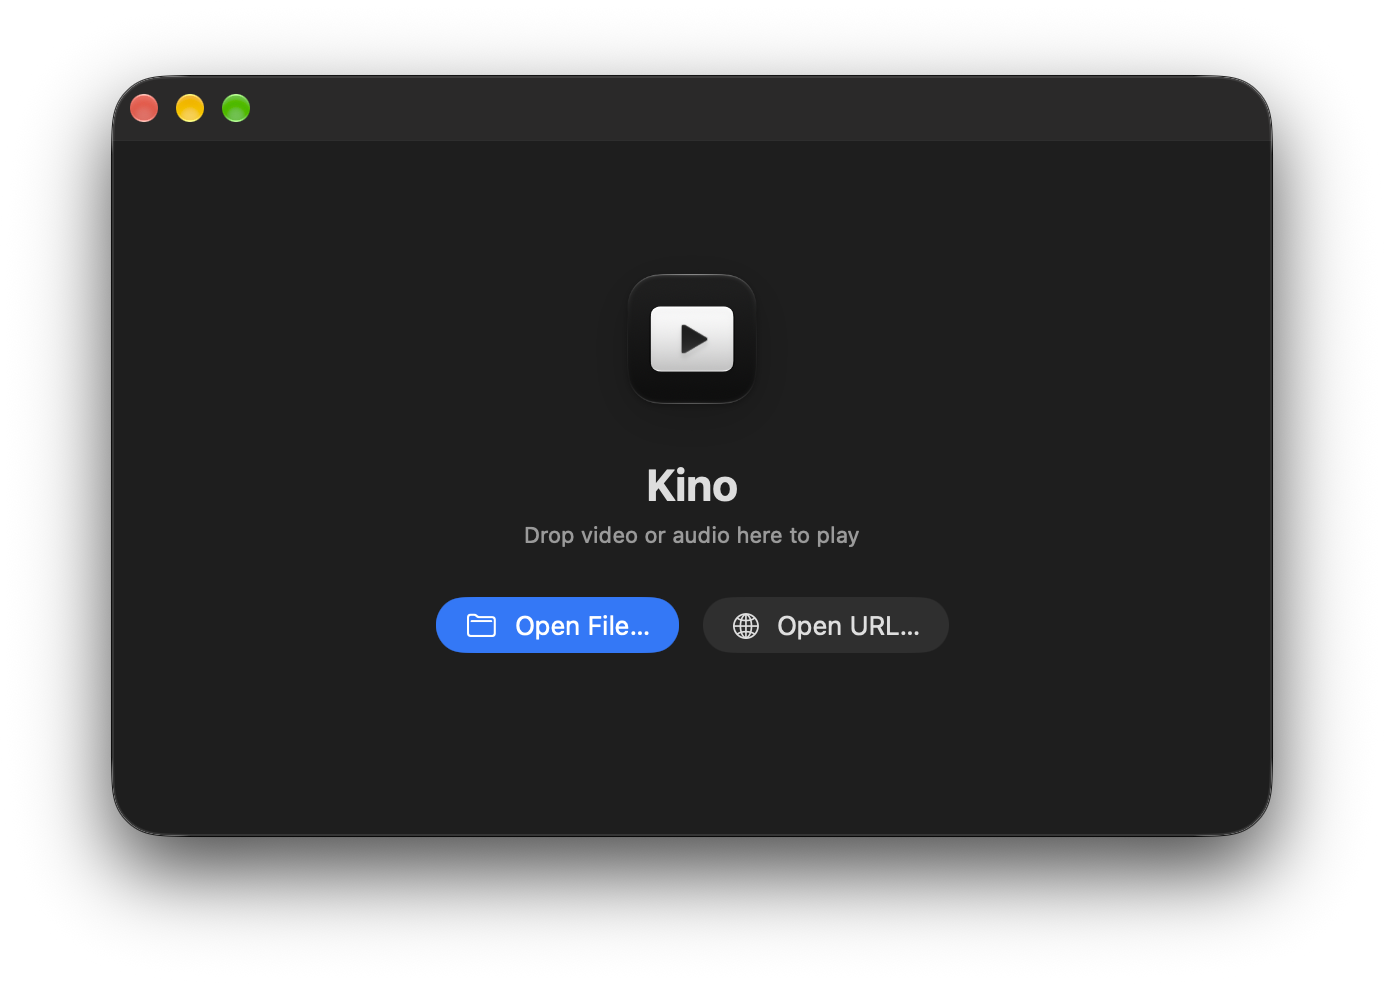
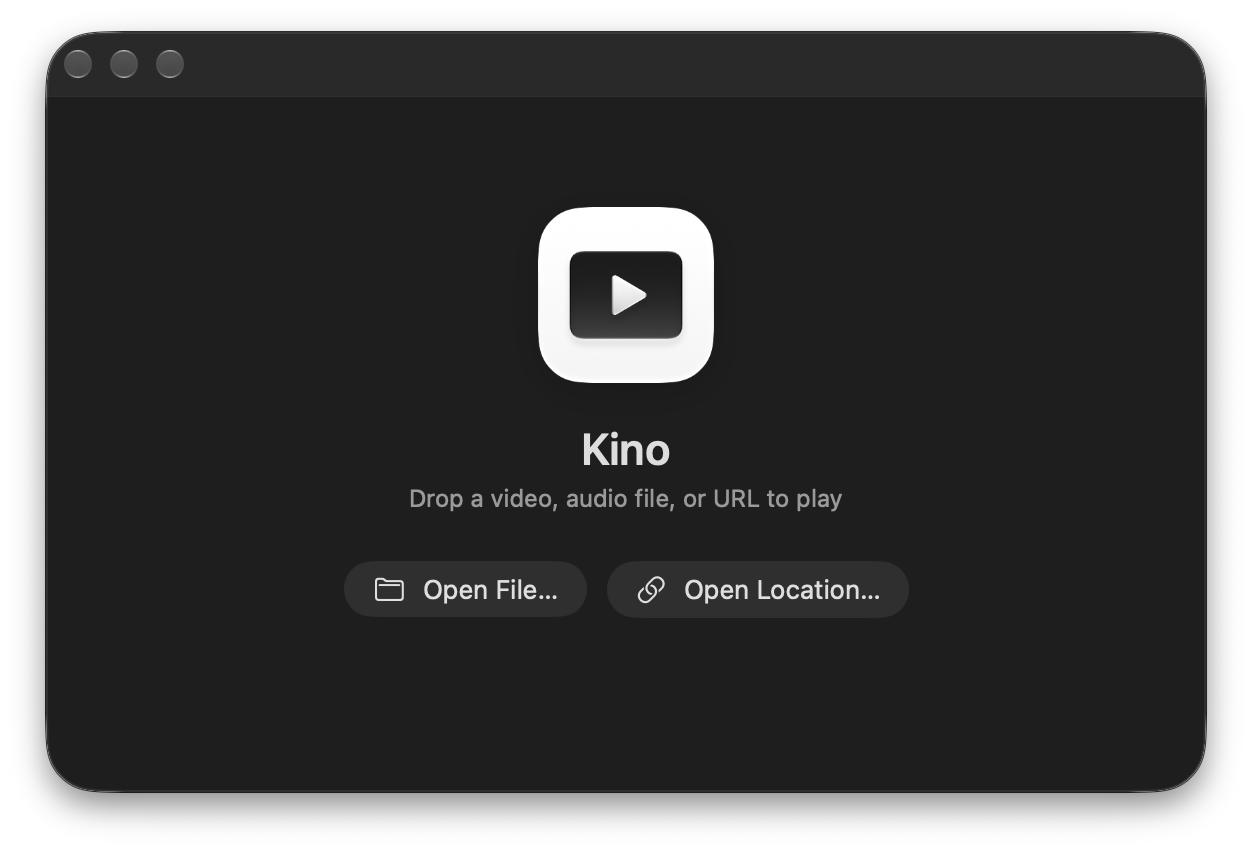
ui: keep welcome screen on launch and refine Apple-native layout

Changed region(s): [[0.0312, 0.0305, 0.9968, 0.9765], [0.2804, 0.2441, 0.6853, 0.7019]]

diff --git a/Sources/Kino/Views/VideoPlayerView.swift b/Sources/Kino/Views/VideoPlayerView.swift
@@ -1120,39 +1120,33 @@ public struct VideoPlayerView: View {
                 Image(nsImage: icon)
                     .resizable()
                     .aspectRatio(contentMode: .fit)
-                    .frame(width: 80, height: 80)
-                    .shadow(color: .black.opacity(0.18), radius: 12, x: 0, y: 6)
+                    .frame(width: 88, height: 88)
+                    .shadow(color: .black.opacity(0.16), radius: 10, x: 0, y: 4)
             } else {
                 ZStack {
                     RoundedRectangle(cornerRadius: 20, style: .continuous)
-                        .fill(
-                            LinearGradient(
-                                colors: [Color(red: 0.05, green: 0.50, blue: 1.0), Color(red: 0.0, green: 0.35, blue: 0.90)],
-                                startPoint: .topLeading,
-                                endPoint: .bottomTrailing
-                            )
-                        )
-                        .frame(width: 80, height: 80)
+                        .fill(Color.accentColor.gradient)
+                        .frame(width: 88, height: 88)
 
                     Image(systemName: "play.fill")
-                        .font(.system(size: 32, weight: .semibold))
+                        .font(.system(size: 34, weight: .semibold))
                         .foregroundColor(.white)
                         .offset(x: 2)
                 }
-                .shadow(color: .black.opacity(0.18), radius: 12, x: 0, y: 6)
+                .shadow(color: .black.opacity(0.16), radius: 10, x: 0, y: 4)
             }
 
-            VStack(spacing: 5) {
+            VStack(spacing: 4) {
                 Text("Kino")
-                    .font(.system(size: 22, weight: .bold))
-                    .foregroundColor(.primary)
+                    .font(.title.weight(.semibold))
+                    .foregroundStyle(.primary)
 
-                Text("Drop video or audio here to play")
-                    .font(.subheadline)
-                    .foregroundColor(.secondary)
+                Text("Drop a video, audio file, or URL to play")
+                    .font(.callout)
+                    .foregroundStyle(.secondary)
             }
 
-            HStack(spacing: 12) {
+            HStack(spacing: 10) {
                 Button(action: onOpenFile) {
                     Label("Open File…", systemImage: "folder")
                 }
@@ -1161,11 +1155,11 @@ public struct VideoPlayerView: View {
                 .keyboardShortcut(.defaultAction)
 
                 Button(action: onOpenURL) {
-                    Label("Open URL…", systemImage: "globe")
+                    Label("Open Location…", systemImage: "link")
                 }
                 .buttonStyle(.bordered)
                 .controlSize(.large)
-                .keyboardShortcut("u", modifiers: .command)
+                .keyboardShortcut("l", modifiers: .command)
             }
             .padding(.top, 4)
 
@@ -1182,22 +1176,21 @@ public struct VideoPlayerView: View {
                         recentDocuments = []
                     }
                 } label: {
-                    Label("Recent Files", systemImage: "clock")
+                    Label("Open Recent", systemImage: "clock")
                         .font(.footnote)
-                        .foregroundColor(.secondary)
+                        .foregroundStyle(.secondary)
                 }
                 .menuStyle(.borderlessButton)
-                .padding(.top, 4)
+                .padding(.top, 2)
             }
         }
         .frame(maxWidth: .infinity, maxHeight: .infinity, alignment: .center)
         .padding(32)
-        .overlay(
-            RoundedRectangle(cornerRadius: 20, style: .continuous)
-                .strokeBorder(Color.accentColor, style: StrokeStyle(lineWidth: 2, dash: [6, 4]))
-                .padding(6)
-                .opacity(isDropTargeted ? 1.0 : 0.0)
-                .animation(.easeInOut(duration: 0.2), value: isDropTargeted)
+        .background(
+            RoundedRectangle(cornerRadius: 16, style: .continuous)
+                .fill(Color.accentColor.opacity(isDropTargeted ? 0.12 : 0.0))
+                .padding(12)
+                .animation(.easeInOut(duration: 0.18), value: isDropTargeted)
         )
         .onAppear {
             recentDocuments = NSDocumentController.shared.recentDocumentURLs
